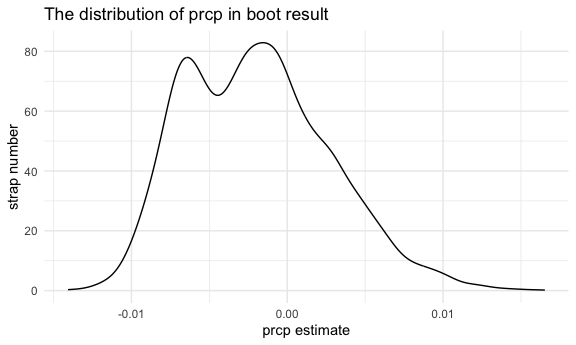
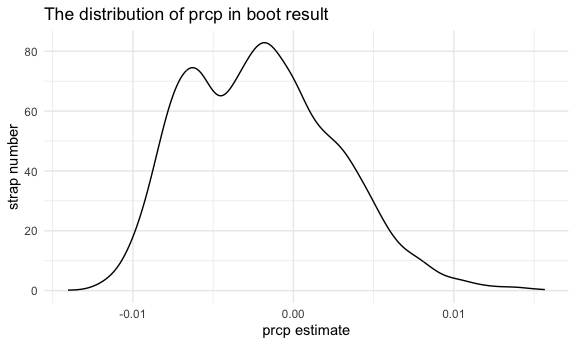
completed problem 3

diff --git a/p8105_hw6_zl2746.md b/p8105_hw6_zl2746.md
@@ -88,18 +88,18 @@ boot_results2
 ```
 
     ## # A tibble: 5,000 × 6
-    ##    strap_number r_squared `(Intercept)`  tmin      prcp log_beta
-    ##           <int>     <dbl>         <dbl> <dbl>     <dbl>    <dbl>
-    ##  1            1     0.912          8.22 1.00  -0.00245    NaN   
-    ##  2            2     0.905          8.09 1.01  -0.00309    NaN   
-    ##  3            3     0.905          8.16 0.998  0.000889    -7.03
-    ##  4            4     0.929          7.84 1.05  -0.00771    NaN   
-    ##  5            5     0.923          8.45 1.00  -0.00680    NaN   
-    ##  6            6     0.922          7.89 1.02  -0.00463    NaN   
-    ##  7            7     0.904          8.10 0.985  0.00184     -6.31
-    ##  8            8     0.905          7.87 1.01   0.00260     -5.94
-    ##  9            9     0.910          8.41 1.01  -0.00208    NaN   
-    ## 10           10     0.915          8.11 1.01  -0.00394    NaN   
+    ##    strap_number r_squared `(Intercept)`  tmin       prcp log_beta
+    ##           <int>     <dbl>         <dbl> <dbl>      <dbl>    <dbl>
+    ##  1            1     0.906          8.05 1.01  -0.000741    NaN   
+    ##  2            2     0.924          7.76 1.02  -0.0000157   NaN   
+    ##  3            3     0.917          7.79 1.03  -0.00399     NaN   
+    ##  4            4     0.915          8.28 1.02  -0.00174     NaN   
+    ##  5            5     0.926          7.81 1.00  -0.00154     NaN   
+    ##  6            6     0.904          8.01 0.997  0.00510      -5.28
+    ##  7            7     0.909          7.85 1.01   0.00347      -5.65
+    ##  8            8     0.927          7.93 1.03  -0.00440     NaN   
+    ##  9            9     0.916          8.20 1.02   0.000195     -8.52
+    ## 10           10     0.917          8.20 1.01  -0.00751     NaN   
     ## # ℹ 4,990 more rows
 
 ``` r
@@ -212,7 +212,7 @@ boot_results2 |>
     ## # A tibble: 1 × 2
     ##   ci_lower ci_upper
     ##      <dbl>    <dbl>
-    ## 1    -9.02    -4.57
+    ## 1    -9.20    -4.58
 
 ``` r
 # construct a CI for r squared
@@ -226,7 +226,7 @@ boot_results2 |>
     ## # A tibble: 1 × 2
     ##   ci_lower ci_upper
     ##      <dbl>    <dbl>
-    ## 1    0.888    0.941
+    ## 1    0.889    0.941
 
 ## Problem 3
 
@@ -383,7 +383,165 @@ use crossv_mc and functions in purrr as appropriate.
 
 ``` r
 set.seed(123)  
-
-#train1 = sample_n(model, 100)
-#test1 = anti_join(model, train1, by = "id")
+# Do the train / test split
+train = sample_n(birthweight, size = 80)
+train
 ```
+
+    ## # A tibble: 80 × 20
+    ##    babysex bhead blength   bwt delwt fincome frace      gaweeks malform menarche
+    ##    <chr>   <dbl>   <dbl> <dbl> <dbl>   <dbl> <chr>        <dbl> <chr>      <dbl>
+    ##  1 male       38      51  3997   130      55 Puerto Ri…    41.6 absent        11
+    ##  2 female     34      50  3345   138      75 Puerto Ri…    39.6 absent        14
+    ##  3 male       33      44  2296   125      55 Black         36.6 absent        13
+    ##  4 male       35      53  3260   168      75 White         41.6 absent        11
+    ##  5 female     33      50  2637   155      45 Black         37.1 absent        13
+    ##  6 male       36      52  3714   171      55 White         46.1 absent        12
+    ##  7 male       34      50  3090   150      65 Black         40.1 absent        14
+    ##  8 female     31      50  2835   177      95 White         40.9 absent        12
+    ##  9 male       32      51  2750   130      35 Black         37.9 absent        14
+    ## 10 female     32      46  2438   126      55 Black         42.9 absent        13
+    ## # ℹ 70 more rows
+    ## # ℹ 10 more variables: mheight <dbl>, momage <dbl>, mrace <chr>, parity <dbl>,
+    ## #   pnumlbw <dbl>, pnumsga <dbl>, ppbmi <dbl>, ppwt <dbl>, smoken <dbl>,
+    ## #   wtgain <dbl>
+
+``` r
+test = anti_join(birthweight, train)
+```
+
+    ## Joining with `by = join_by(babysex, bhead, blength, bwt, delwt, fincome, frace,
+    ## gaweeks, malform, menarche, mheight, momage, mrace, parity, pnumlbw, pnumsga,
+    ## ppbmi, ppwt, smoken, wtgain)`
+
+``` r
+test
+```
+
+    ## # A tibble: 4,262 × 20
+    ##    babysex bhead blength   bwt delwt fincome frace gaweeks malform menarche
+    ##    <chr>   <dbl>   <dbl> <dbl> <dbl>   <dbl> <chr>   <dbl> <chr>      <dbl>
+    ##  1 female     34      51  3629   177      35 White    39.9 absent        13
+    ##  2 male       34      48  3062   156      65 Black    25.9 absent        14
+    ##  3 female     36      50  3345   148      85 White    39.9 absent        12
+    ##  4 male       34      52  3062   157      55 White    40   absent        14
+    ##  5 female     34      52  3374   156       5 White    41.6 absent        13
+    ##  6 male       33      52  3374   129      55 White    40.7 absent        12
+    ##  7 female     33      46  2523   126      96 Black    40.3 absent        14
+    ##  8 female     33      49  2778   140       5 White    37.4 absent        12
+    ##  9 male       36      52  3515   146      85 White    40.3 absent        11
+    ## 10 male       33      50  3459   169      75 Black    40.7 absent        12
+    ## # ℹ 4,252 more rows
+    ## # ℹ 10 more variables: mheight <dbl>, momage <dbl>, mrace <chr>, parity <dbl>,
+    ## #   pnumlbw <dbl>, pnumsga <dbl>, ppbmi <dbl>, ppwt <dbl>, smoken <dbl>,
+    ## #   wtgain <dbl>
+
+``` r
+# RMSE on Training and Testing Data
+rmse_train1 = rmse(model, train)
+rmse_train2 = rmse(model2, train)
+rmse_train3 = rmse(model3, train)
+rmse_test1 = rmse(model, test)
+rmse_test2 = rmse(model2, test)
+rmse_test3 = rmse(model3, test)
+
+# Output RMSE results
+rmse_train1; rmse_train2; rmse_train3;
+```
+
+    ## [1] 234.3313
+
+    ## [1] 298.5854
+
+    ## [1] 240.4452
+
+``` r
+rmse_test1; rmse_test2; rmse_test3
+```
+
+    ## [1] 274.6041
+
+    ## [1] 333.716
+
+    ## [1] 288.7321
+
+``` r
+# Use modelr for CV
+cv_df = 
+  birthweight |> 
+  crossv_mc(n = 100) |> 
+  mutate(
+    train = map(train, as_tibble),
+    test = map(test, as_tibble)
+  )
+cv_df |> pull(train) |> nth(3) |> as_tibble()
+```
+
+    ## # A tibble: 3,473 × 20
+    ##    babysex bhead blength   bwt delwt fincome frace gaweeks malform menarche
+    ##    <chr>   <dbl>   <dbl> <dbl> <dbl>   <dbl> <chr>   <dbl> <chr>      <dbl>
+    ##  1 female     34      51  3629   177      35 White    39.9 absent        13
+    ##  2 female     36      50  3345   148      85 White    39.9 absent        12
+    ##  3 male       34      52  3062   157      55 White    40   absent        14
+    ##  4 male       33      52  3374   129      55 White    40.7 absent        12
+    ##  5 male       36      52  3515   146      85 White    40.3 absent        11
+    ##  6 female     35      51  3317   130      55 White    43.4 absent        13
+    ##  7 male       35      51  3459   146      55 White    39.4 absent        12
+    ##  8 female     35      48  3175   158      75 White    39.7 absent        13
+    ##  9 male       35      51  3544   129      65 White    39.6 absent        12
+    ## 10 female     33      49  2551   120      75 Black    38.1 absent        11
+    ## # ℹ 3,463 more rows
+    ## # ℹ 10 more variables: mheight <dbl>, momage <dbl>, mrace <chr>, parity <dbl>,
+    ## #   pnumlbw <dbl>, pnumsga <dbl>, ppbmi <dbl>, ppwt <dbl>, smoken <dbl>,
+    ## #   wtgain <dbl>
+
+``` r
+# Apply each model to all training datasets, and evaluate on all testing datasets.
+cv_results =
+  cv_df |> 
+  mutate(
+    model1 = map(train, \(df) lm(bwt ~ gaweeks + ppbmi + blength + bhead + smoken + wtgain + babysex + frace + mrace, 
+            data = birthweight)),
+    model2 = map(train, \(df) lm(bwt ~ gaweeks + blength, data = birthweight)),
+    model3 = map(train, \(df) lm(bwt ~ bhead + blength + babysex + bhead * blength + bhead * babysex + blength * babysex, 
+             data = birthweight))
+  ) |> 
+  mutate(
+    rmse_model1 = map2_dbl(model1, test, \(mod, df) rmse(mod, df)),
+    rmse_model2 = map2_dbl(model2, test, \(mod, df) rmse(mod, df)),
+    rmse_model3 = map2_dbl(model3, test, \(mod, df) rmse(mod, df))
+  )
+
+cv_results |> 
+  select(starts_with("rmse")) |> 
+  pivot_longer(
+    everything(),
+    names_to = "model_type",
+    values_to = "rmse",
+    names_prefix = "rmse_"
+  ) |> 
+  group_by(model_type) |> 
+  summarize(m_rmse = mean(rmse))
+```
+
+    ## # A tibble: 3 × 2
+    ##   model_type m_rmse
+    ##   <chr>       <dbl>
+    ## 1 model1       274.
+    ## 2 model2       331.
+    ## 3 model3       287.
+
+``` r
+cv_results |> 
+  select(starts_with("rmse")) |> 
+  pivot_longer(
+    everything(),
+    names_to = "model_type",
+    values_to = "rmse",
+    names_prefix = "rmse_"
+  ) |> 
+  ggplot(aes(x = model_type, y = rmse)) +
+  geom_violin()
+```
+
+<img src="p8105_hw6_zl2746_files/figure-gfm/unnamed-chunk-10-1.png" width="90%" />
